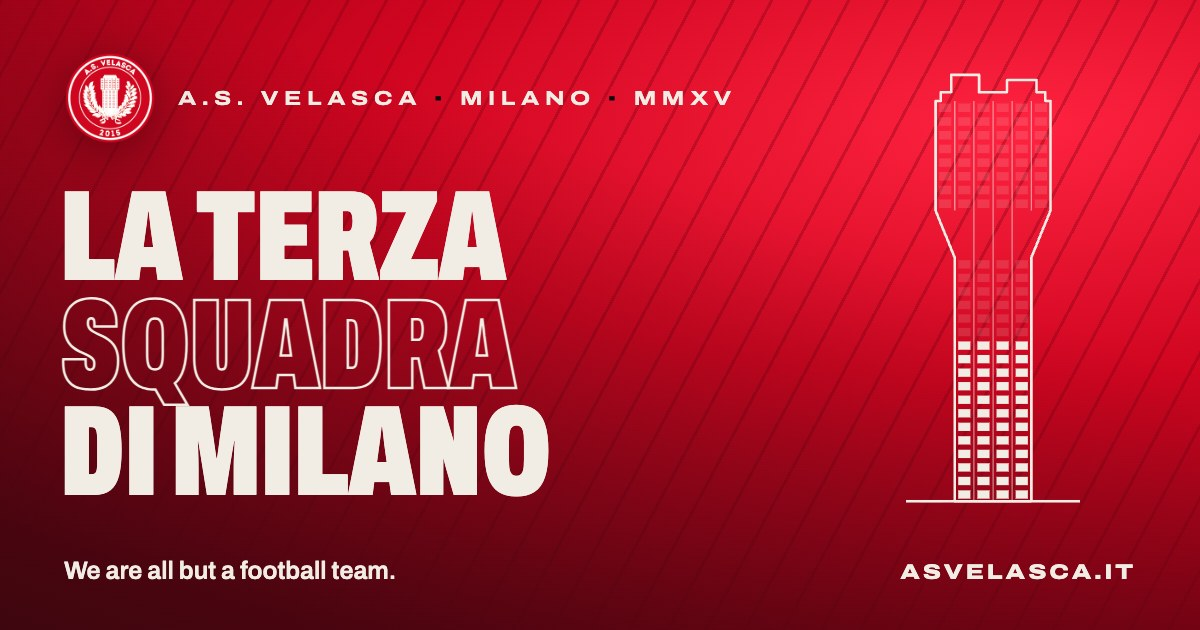
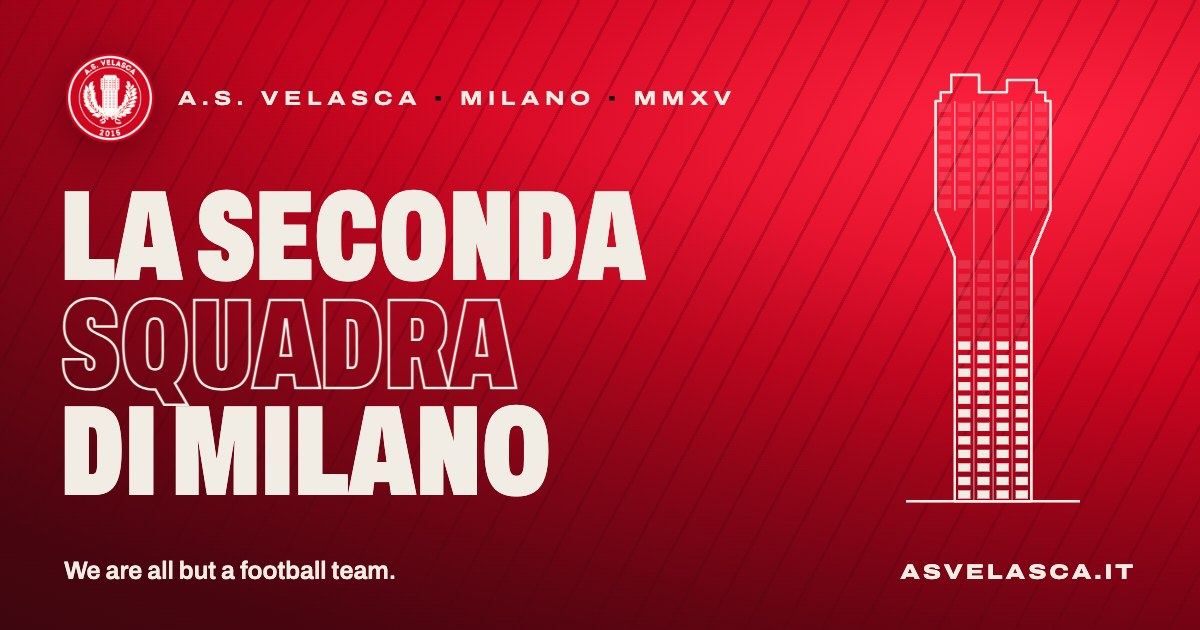
fix seconda squadra

Changed region(s): [[0.2467, 0.3016, 0.555, 0.4524], [0.1542, 0.3016, 0.2158, 0.4524]]

diff --git a/index.html b/index.html
@@ -4,14 +4,14 @@
     <meta charset="utf-8" />
     <!-- csp -->
     <meta name="viewport" content="width=device-width, initial-scale=1, viewport-fit=cover" />
-    <title>A.S. Velasca · La terza squadra di Milano</title>
+    <title>A.S. Velasca · La seconda squadra di Milano</title>
     <meta
       name="description"
-      content="A.S. Velasca, la terza squadra di Milano: a football club founded in 2015, where every season an artist designs the kit. We are all but a football team."
+      content="A.S. Velasca, la seconda squadra di Milano: a football club founded in 2015, where every season an artist designs the kit. We are all but a football team."
     />
     <meta
       name="keywords"
-      content="a.s. velasca, marco de girolamo, karim khideur, loris mandelli, wolfgang natlacen, clément tournus, milano, terza squadra di milano"
+      content="a.s. velasca, marco de girolamo, karim khideur, loris mandelli, wolfgang natlacen, clément tournus, milano, seconda squadra di milano"
     />
     <meta name="theme-color" content="#0b0b0c" />
     <meta name="color-scheme" content="dark" />
@@ -27,7 +27,7 @@
     <meta property="og:type" content="website" />
     <meta property="og:site_name" content="A.S. Velasca" />
     <meta property="og:url" content="https://asvelasca.it/" />
-    <meta property="og:title" content="A.S. Velasca · La terza squadra di Milano" />
+    <meta property="og:title" content="A.S. Velasca · La seconda squadra di Milano" />
     <meta
       property="og:description"
       content="We are all but a football team. Founded in Milan in 2015, every season an artist designs the kit."
@@ -36,14 +36,14 @@
     <meta property="og:image:type" content="image/jpeg" />
     <meta property="og:image:width" content="1200" />
     <meta property="og:image:height" content="630" />
-    <meta property="og:image:alt" content="A.S. Velasca, la terza squadra di Milano: the crest and the Torre Velasca on red" />
+    <meta property="og:image:alt" content="A.S. Velasca, la seconda squadra di Milano: the crest and the Torre Velasca on red" />
     <meta property="og:locale" content="en_GB" />
     <meta property="og:locale:alternate" content="it_IT" />
     <meta property="og:locale:alternate" content="fr_FR" />
     <meta property="og:locale:alternate" content="zh_CN" />
     <meta name="twitter:card" content="summary_large_image" />
     <meta name="twitter:site" content="@asvelasca" />
-    <meta name="twitter:title" content="A.S. Velasca · La terza squadra di Milano" />
+    <meta name="twitter:title" content="A.S. Velasca · La seconda squadra di Milano" />
     <meta
       name="twitter:description"
       content="We are all but a football team. Founded in Milan in 2015, every season an artist designs the kit."
@@ -56,7 +56,7 @@
         "@context": "https://schema.org",
         "@type": "SportsTeam",
         "name": "A.S. Velasca",
-        "alternateName": "La terza squadra di Milano",
+        "alternateName": "La seconda squadra di Milano",
         "sport": "Football",
         "url": "https://asvelasca.it/",
         "logo": "https://asvelasca.it/apple-touch-icon.png",
@@ -80,7 +80,7 @@
   </head>
   <body>
     <div id="root"></div>
-    <noscript>A.S. Velasca, la terza squadra di Milano. JavaScript is required.</noscript>
+    <noscript>A.S. Velasca, la seconda squadra di Milano. JavaScript is required.</noscript>
     <script type="module" src="/src/main.jsx"></script>
   </body>
 </html>

diff --git a/src/components/Splash/Splash.jsx b/src/components/Splash/Splash.jsx
@@ -84,7 +84,7 @@ const Splash = () => {
             </span>
           ))}
         </h1>
-        <p className="Splash__tagline">La terza squadra di Milano</p>
+        <p className="Splash__tagline">La seconda squadra di Milano</p>
 
         <nav className="Splash__langs" aria-label="Language / Lingua / Langue / 语言">
           {ENTRIES.map(({ locale: target, lang, name, cta }, index) => (
@@ -123,7 +123,7 @@ const Splash = () => {
         className="Splash__marquee"
         items={[
           'We are all but a football team',
-          'La terza squadra di Milano',
+          'La seconda squadra di Milano',
           'Torre Velasca',
           'Est. 2015',
         ]}

diff --git a/src/components/Main/Main.jsx b/src/components/Main/Main.jsx
@@ -9,7 +9,11 @@ import Numbers from '../Numbers/Numbers';
 
 import './Main.scss';
 
-const SLOGANS = ['We are all but a football team', 'La terza squadra di Milano', 'Art × Football'];
+const SLOGANS = [
+  'We are all but a football team',
+  'La seconda squadra di Milano',
+  'Art × Football',
+];
 const PLACES = ['Torre Velasca', 'Milano', 'Est. 2015', 'Terza Categoria'];
 
 /**

diff --git a/src/components/Hero/Hero.jsx b/src/components/Hero/Hero.jsx
@@ -139,7 +139,7 @@ const Hero = ({ slidesPromise }) => {
         </p>
         <h1 id="hero-title" className="Hero__title">
           <span className="Hero__line">
-            <span>La terza</span>
+            <span>La seconda</span>
           </span>
           <span className="Hero__line Hero__line_outline">
             <span>squadra</span>

diff --git a/src/shared/utils.js b/src/shared/utils.js
@@ -59,6 +59,6 @@ export function useDocumentTitle(title) {
     const label = title && title.charAt(0).toLocaleUpperCase() + title.slice(1);
     document.title = label
       ? `${label} · A.S. Velasca`
-      : 'A.S. Velasca · La terza squadra di Milano';
+      : 'A.S. Velasca · La seconda squadra di Milano';
   }, [title]);
 }
